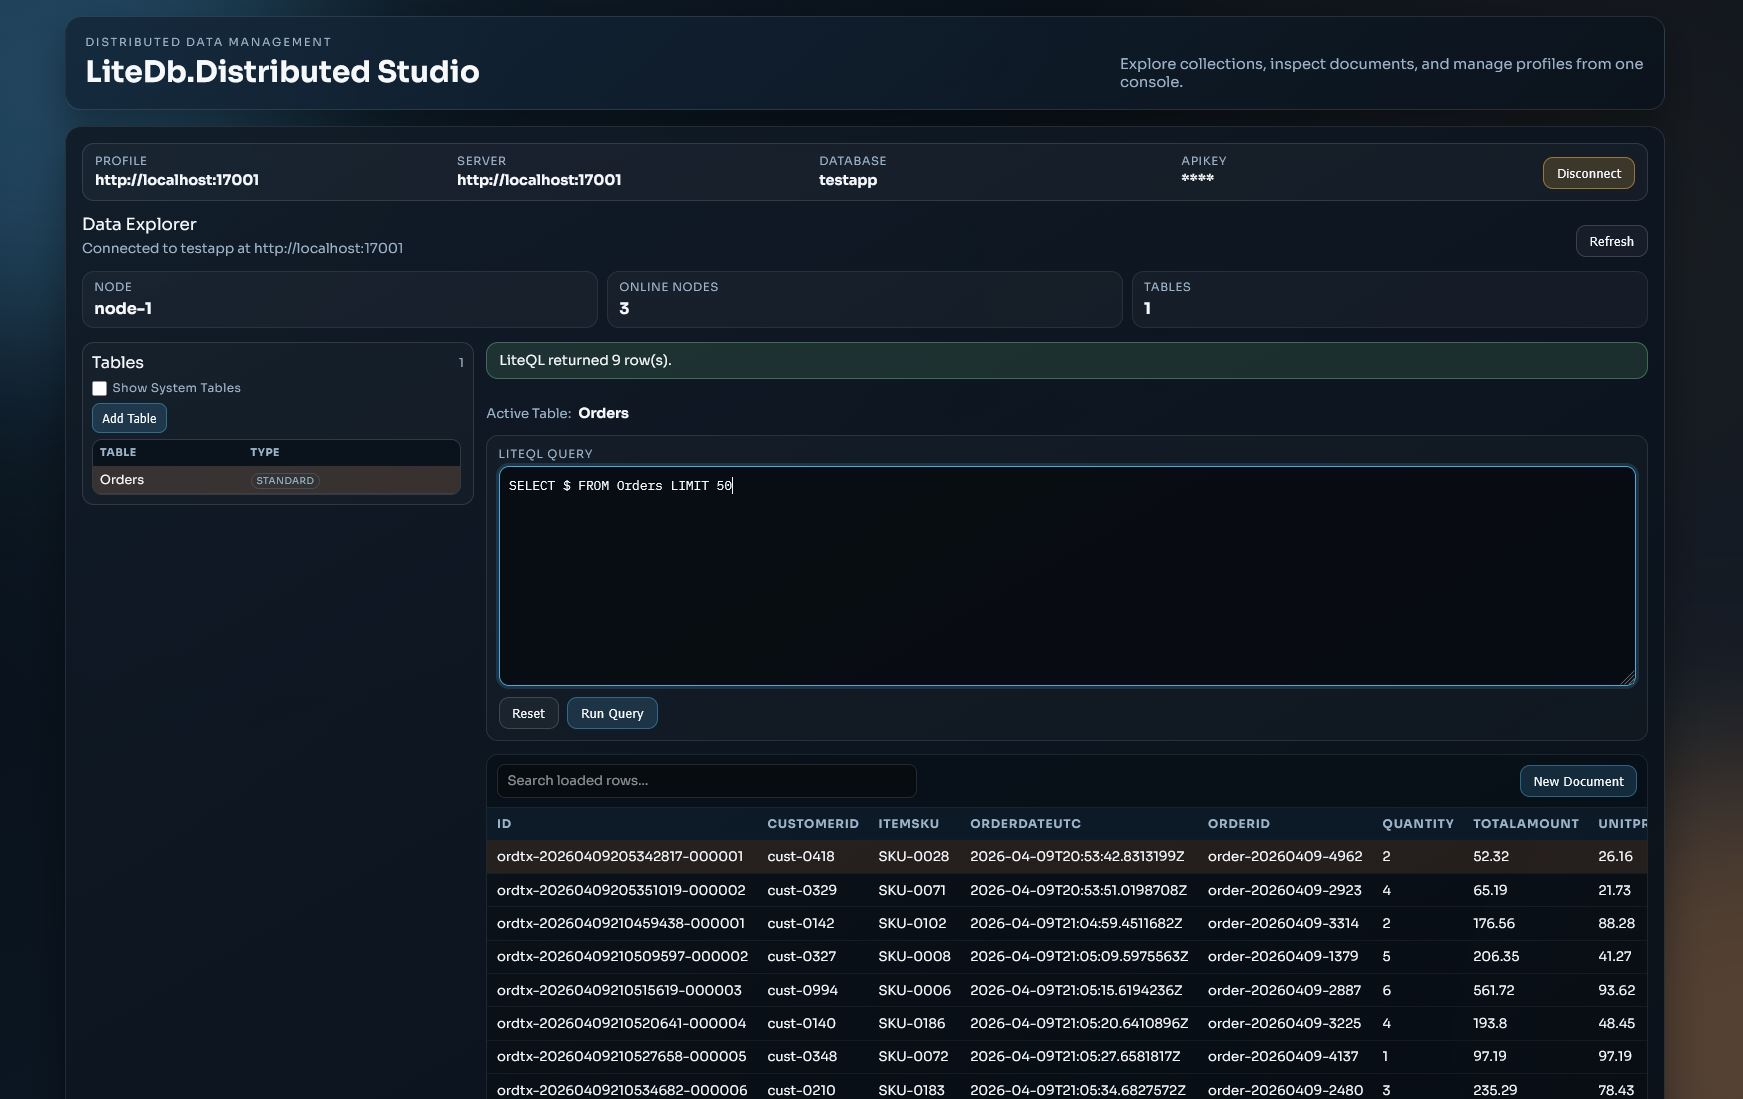
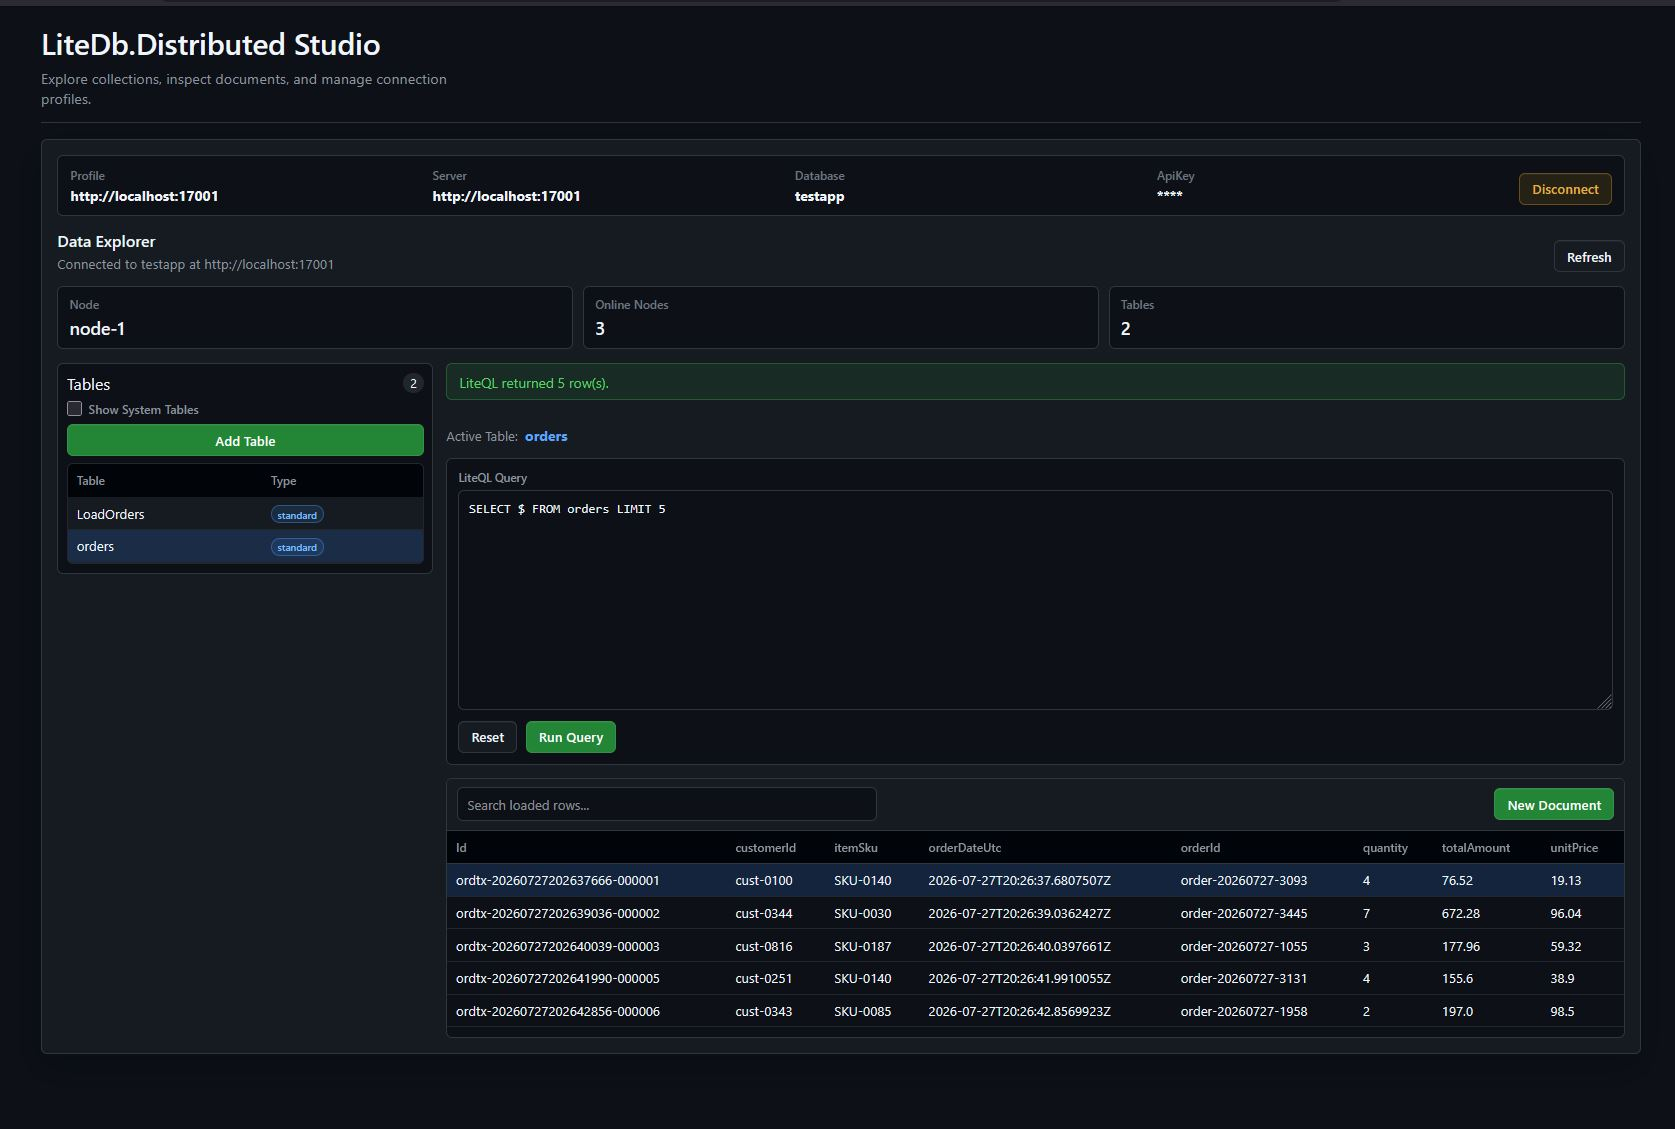
ui improvements

diff --git a/LiteDb.Distributed.Server/wwwroot/index.html b/LiteDb.Distributed.Server/wwwroot/index.html
@@ -180,54 +180,6 @@
       font-size: 0.76rem;
     }
 
-    .tabs {
-      display: flex;
-      align-items: flex-end;
-      gap: 4px;
-      overflow: hidden;
-      border-bottom: 1px solid var(--border);
-    }
-
-    .tab {
-      position: relative;
-      display: inline-flex;
-      align-items: center;
-      gap: 8px;
-      min-height: 42px;
-      color: var(--fg-muted);
-      padding: 0 12px;
-      font-size: 0.88rem;
-      font-weight: 600;
-      white-space: nowrap;
-    }
-
-    .tab.active {
-      color: var(--fg);
-    }
-
-    .tab.active::after {
-      content: "";
-      position: absolute;
-      right: 8px;
-      bottom: -1px;
-      left: 8px;
-      height: 2px;
-      border-radius: 999px;
-      background: #f78166;
-    }
-
-    .tab-count {
-      min-width: 18px;
-      height: 18px;
-      display: inline-grid;
-      place-items: center;
-      color: var(--fg);
-      border-radius: 999px;
-      background: var(--surface-muted);
-      padding: 0 6px;
-      font-size: 0.72rem;
-    }
-
     .metrics {
       display: grid;
       grid-template-columns: repeat(3, minmax(0, 1fr));
@@ -333,7 +285,7 @@
 
     .database-card .fact-row {
       min-height: 22px;
-      grid-template-columns: minmax(92px, max-content) minmax(0, 1fr);
+      grid-template-columns: minmax(72px, max-content) minmax(0, 1fr);
       font-size: 0.8rem;
     }
 
@@ -469,6 +421,20 @@
       color: var(--accent);
       font-family: ui-monospace, SFMono-Regular, SFMono, Consolas, "Liberation Mono", Menlo, monospace;
       font-size: 0.8rem;
+    }
+
+    .metric-icon-label {
+      display: inline-flex;
+      align-items: center;
+      gap: 5px;
+      color: var(--fg-subtle);
+      font-weight: 600;
+    }
+
+    .metric-icon {
+      color: var(--accent);
+      font-size: 0.9rem;
+      line-height: 1;
     }
 
     .status-label {
@@ -713,8 +679,8 @@
   <main class="shell">
     <header class="hero">
       <div class="hero-copy">
-        <h1>Operations dashboard</h1>
-        <p class="subtext" id="summary">Loading cluster telemetry...</p>
+        <h1>Dashboard</h1>
+        <p class="subtext" id="summary">Monitor cluster health, peer connectivity, and logical database state.</p>
       </div>
       <div class="hero-actions">
         <div class="controls">
@@ -733,12 +699,6 @@
         <div class="error" id="errorLine" hidden></div>
       </div>
     </header>
-
-    <nav class="tabs" aria-label="Dashboard sections">
-      <div class="tab active">Overview <span class="tab-count" id="tabNodeCount">0</span></div>
-      <div class="tab">Peers <span class="tab-count" id="tabPeerCount">0</span></div>
-      <div class="tab">Databases <span class="tab-count" id="tabDbCount">0</span></div>
-    </nav>
 
     <section class="metrics" aria-label="Cluster summary">
       <article class="panel metric reveal">
@@ -788,10 +748,6 @@
     const kpiCurrentNode = document.getElementById("kpiCurrentNode");
     const kpiNodeCount = document.getElementById("kpiNodeCount");
     const kpiDbCount = document.getElementById("kpiDbCount");
-    const tabNodeCount = document.getElementById("tabNodeCount");
-    const tabPeerCount = document.getElementById("tabPeerCount");
-    const tabDbCount = document.getElementById("tabDbCount");
-
     let refreshTimer = null;
 
     async function refreshDashboard() {
@@ -821,16 +777,12 @@
       const peerConnections = data.PeerConnections || [];
       const timestamp = toUtcText(data.TimestampUtc);
       const intervalMs = readRefreshIntervalMs();
-      summary.textContent = `${nodes.length} nodes, ${databases.length} logical databases, refresh ${intervalMs}ms`;
+      summary.textContent = "Monitor cluster health, peer connectivity, and logical database state.";
       metaLine.textContent = `Refreshed: ${timestamp}`;
 
       kpiCurrentNode.textContent = data.NodeId || "-";
       kpiNodeCount.textContent = String(nodes.length);
       kpiDbCount.textContent = String(databases.length);
-      tabNodeCount.textContent = String(nodes.length);
-      tabPeerCount.textContent = String(peerConnections.length);
-      tabDbCount.textContent = String(databases.length);
-
       renderPeerConnections(peerConnections);
       renderDatabases(databases);
     }
@@ -888,7 +840,7 @@
               <div class="fact-row peer-fact">
                 <span class="fact-label">${escapeHtml(peer.PeerNodeId)}</span>
                 <span class="fact-value"><span class="status-label ${replicationStatusClass(peer.CatchUpStatus)}">${escapeHtml(formatReplicationStatus(peer.CatchUpStatus))}</span>
-                pending ~${escapeHtml(peer.EstimatedPendingPushOperations ?? 0)}</span>
+                <span class="metric-icon" title="Pending push" aria-label="Pending push">⇧</span>${escapeHtml(peer.EstimatedPendingPushOperations ?? 0)}</span>
               </div>`).join("");
 
         databasesGrid.insertAdjacentHTML("beforeend", `
@@ -898,7 +850,7 @@
               <span class="pill info">${escapeHtml(db.Name)}</span>
             </div>
             <div class="fact-list">
-              <div class="fact-row"><span class="fact-label">Pending push</span><span class="fact-value">${escapeHtml(db.TotalEstimatedPendingPushOperations ?? 0)}</span></div>
+              <div class="fact-row"><span class="fact-label metric-icon-label"><span class="metric-icon" title="Pending push" aria-label="Pending push">⇧</span> Push</span><span class="fact-value">${escapeHtml(db.TotalEstimatedPendingPushOperations ?? 0)}</span></div>
               <div class="fact-row"><span class="fact-label">Database file</span><span class="fact-value">${formatFile(db.DatabaseFile)}</span></div>
               ${peerLag}
             </div>
